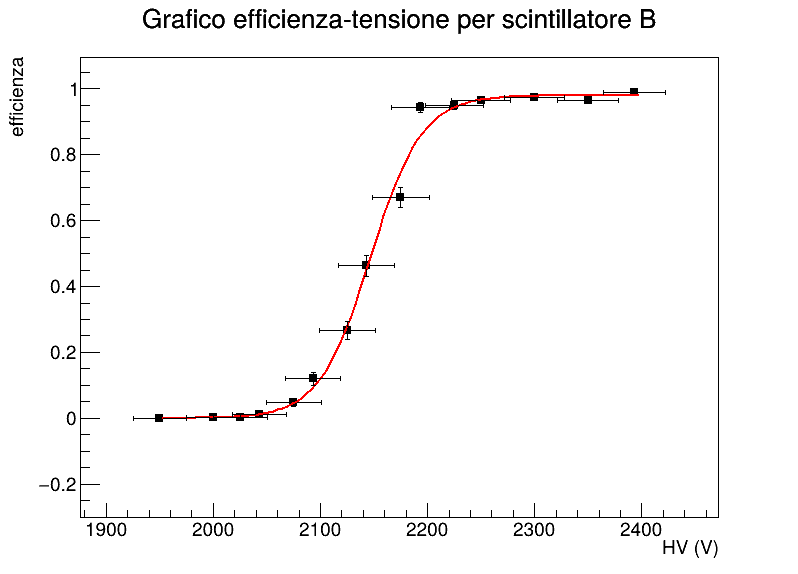
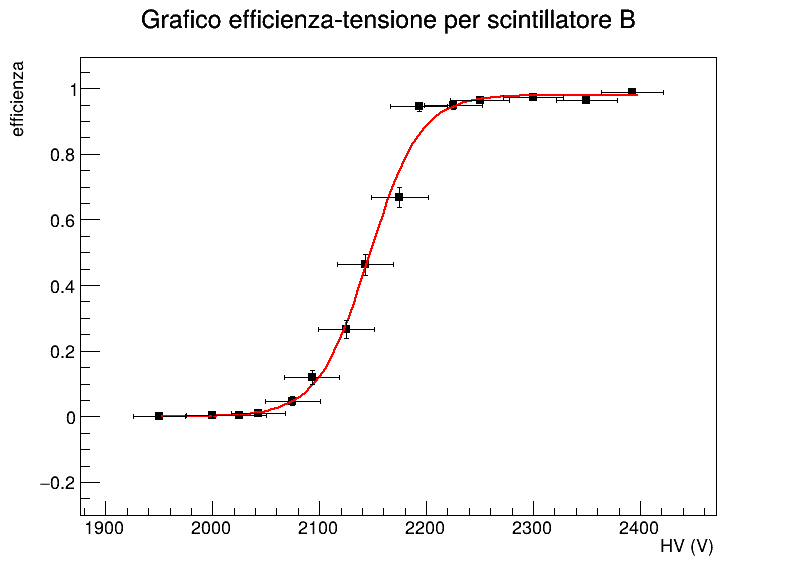
tabella latex

diff --git a/LAB_nucleare/LAB_nucl_efficienza_3.C b/LAB_nucleare/LAB_nucl_efficienza_3.C
@@ -1,0 +1,221 @@
+#include<iostream>
+#include "TGraphErrors.h"
+#include "TH1D.h"
+#include "TF1.h"
+#include<vector>
+#include<cmath>
+#include "TCanvas.h"
+using namespace std;
+
+
+//Obiettivo è il calcolo dell'efficienza dei nostri rivelatori; è la prima parte che richiede una serie analisi dati
+
+
+double EfficiencyFalling(double *x, double *par) {
+  return par[0]/(1+exp((x[0] - par[1])/par[2]));
+}
+
+double EfficiencyRising(double *x, double *par) {
+  return par[0]/(1+exp((par[1] - x[0])/par[2]));
+}
+
+
+void LAB_nucl_efficienza_3(){
+    //
+    //SCRIVERE QUA**********************************************************************************************************************
+    //creo gli array con i dati (copia-incollali tra le parentesi graffe)
+    vector<double> HV={2193, 2143, 2093, 2043, 2000, 1950, 2025, 2075, 2125, 2175, 2225, 2250, 2300, 2350, 2393}; //alta tensione
+    //
+    vector<double> coin_doppie={252, 244, 250, 276, 256, 260, 275, 271, 271, 245, 261, 252, 266, 258, 248};
+    //
+    vector<double> coin_triple= {238, 113, 30, 3, 1, 0.0000000000001, 1, 13, 72, 164, 248, 243, 259, 249, 245};
+    //
+    vector<double> coin_singole= {2933, 938, 236, 15, 6, 0.0000000000000001, 11, 110, 472, 1509, 3461, 4951, 8427, 12954, 17980};
+    //
+    double tempo_daq=100; //intervallo di tempo dell'acquisizione dati
+    //
+    double err_tempo=0.001; //errore sul tempo di data acquisition
+    //
+    double err_rel_tempo= err_tempo/tempo_daq; //errore relativo sul tempo di data acquisition
+    //
+    //STOP SCRITTURA (NON SCRIVERE IN QUESTI ARRAY QUA SOTTO!!!!)**************************************************************************
+    //qui scriviamo gli array con i rate
+    //
+    vector<double> R_doppie;
+    //
+    vector<double> R_triple;
+    //
+    vector<double> R_singole;
+    //
+    //RIEMPIMENTO ARRAY RATE
+    //R_doppie
+    for(vector<double>::const_iterator it= coin_doppie.begin(); it!= coin_doppie.end(); it++){
+        double misura= *it/tempo_daq;
+        R_doppie.push_back(misura);
+    }
+    //R_triple
+    for(vector<double>::const_iterator it= coin_triple.begin(); it!= coin_triple.end(); it++){
+        double misura= *it/tempo_daq;
+        R_triple.push_back(misura);
+    }
+    //R_singole
+    for(vector<double>::const_iterator it= coin_singole.begin(); it!= coin_singole.end(); it++){
+        double misura= *it/tempo_daq;
+        R_singole.push_back(misura);
+    }
+    //
+    //Ora ARRAY CON GLI ERRORI
+    vector<double> err_HV;  //cfr manuale
+    //
+    vector<double> err_coin_doppie={};
+    //
+    vector<double> err_coin_triple= {};
+    //
+    vector<double> err_coin_singole= {};
+    //
+    vector<double> err_R_doppie={};
+    //
+    vector<double> err_R_triple;
+    //
+    vector<double> err_R_singole;
+    //
+    //
+    //RIEMPIMENTO ERRORI
+    //
+    //Riempimento errori su HV
+    for(vector<double>::const_iterator it= HV.begin(); it!= HV.end(); it++){
+        double x= *it;
+        double err= x/100+5; //(errore dell'1% + 5 V da manuale)
+        err_HV.push_back(err);
+       
+    }
+    //
+    //riempimento errori su coin_doppie
+    for(vector<double>::const_iterator it= coin_doppie.begin(); it!= coin_doppie.end(); it++){
+        double x= *it;
+        double err= pow(x, 0.5); 
+        err_coin_doppie.push_back(err);
+    }
+    //
+    //riempimento errori su coin_triple
+    for(vector<double>::const_iterator it= coin_triple.begin(); it!= coin_triple.end(); it++){
+        double x= *it;
+        double err= pow(x, 0.5); 
+        err_coin_triple.push_back(err);
+    }
+    //
+    //riempimento errori su coin_singole
+    for(vector<double>::const_iterator it= coin_singole.begin(); it!= coin_singole.end(); it++){
+        double x= *it;
+        double err= pow(x, 0.5);
+        err_coin_singole.push_back(err);
+    }
+    //
+    //non usiamo più i const iterator, perchè tanto il numero di elementi è determinato dalla lunghezza di HV
+    int numero_elementi= HV.size();
+    //
+    //riempimento errori su R_doppie
+    for(int i=0; i<numero_elementi; i++){
+        double err_rel_coin= err_coin_doppie[i]/coin_doppie[i]; //errore relativo coincidenze doppie
+        double err_rel_rate_quad= pow(err_rel_coin,2)+ pow(err_rel_tempo, 2); //errore relativo sul rate
+        double err_rel_rate= pow(err_rel_rate_quad, 0.5);
+        double err_ass_rate= err_rel_rate* R_doppie[i];
+        err_R_doppie.push_back(err_ass_rate);
+    }
+    //
+    //riempimento errori su R_triple
+    for(int i=0; i<numero_elementi; i++){
+        double  err_rel_coin= err_coin_triple[i]/coin_triple[i]; //errore relativo coincidenze triple
+        double err_rel_rate_quad= pow(err_rel_coin,2)+ pow(err_rel_tempo, 2); //errore relativo sul rate
+        double err_rel_rate= pow(err_rel_rate_quad, 0.5);
+        double err_ass_rate= err_rel_rate* R_triple[i];
+        err_R_triple.push_back(err_ass_rate);
+    }
+    //
+    //riempimento errori su R_singole
+    for(int i=0; i<numero_elementi; i++){
+        double err_rel_coin= err_coin_singole[i]/coin_singole[i]; //errore relativo coincidenze singole
+        double err_rel_rate_quad= pow(err_rel_coin,2)+ pow(err_rel_tempo, 2); //errore relativo sul rate
+        double err_rel_rate= pow(err_rel_rate_quad, 0.5);
+        double err_ass_rate= err_rel_rate* R_singole[i];
+        err_R_singole.push_back(err_ass_rate);
+        
+    }
+    //
+    //++++++++++++++++++++++++++++++++++++++
+    //CALCOLO DELL'EFFICIENZA
+    //
+    vector<double> eff={};
+    vector<double> err_eff={};
+
+    //
+    //calcolo efficienza (valore)
+    for(int i=0; i<numero_elementi; i++){
+        double my_doppia_coin= R_doppie[i];
+        double my_tripla_coin= R_triple[i];
+        double my_eff= my_tripla_coin/my_doppia_coin;
+        eff.push_back(my_eff);
+    }
+    //
+    //calcolo errore sull'efficienza
+    for(int i=0; i<numero_elementi; i++){
+        double varianza= (eff[i]*(1-eff[i]))/coin_doppie[i];
+        double err_ass= pow(varianza, 0.5);
+        err_eff.push_back(err_ass);
+    }
+    //
[1 lines of base64/hex data omitted]
+    //
+    //EFFICIENZA-TENSIONE
+    TCanvas* c1= new TCanvas("c1", "\epsilon - tensione", 800, 600);
+    //
+    TGraphErrors* gr1= new TGraphErrors(numero_elementi,HV.data(), eff.data(), err_HV.data(), err_eff.data());
+    //
+    gr1->GetXaxis()->SetTitle("HV (V)");
+    gr1->GetYaxis()->SetTitle("efficienza");
+    gr1->SetTitle("Grafico efficienza-tensione per scintillatore B");
+     gr1->SetMinimum(-0.3);
+     gr1->SetMarkerStyle(21);
+     TF1* fit_eff= new TF1("fit_eff", EfficiencyRising, 1950, 2400, 3);
+      fit_eff->SetParameters(1, 2100, 11);
+      gr1->Fit("fit_eff", "R");
+    gr1->Draw("AP");
+   
+    c1->Print("Grafico_eff_HV.png", "png");
+    cout<<"il p value di Hv-efficienza è"<<endl;
+    double p= fit_eff->GetProb();
+    cout<<p<<endl;
+
+
+
+
+
+    //
+    //GRAFICO   Rsingola-HV
+    TCanvas* c2= new TCanvas("c2", "R_singola-tensione", 800, 600);
+    //
+    TGraphErrors* gr2= new TGraphErrors(numero_elementi, HV.data(), R_singole.data(), err_HV.data(), err_R_singole.data());
+    gr2->GetXaxis()->SetTitle("HV (V)");
+    gr2->GetYaxis()->SetTitle("R_{singola}");
+    gr2->SetMinimum(-10);
+    gr2->SetMarkerStyle(21);
+    gr2->SetTitle("Grafico conteggi-tensione per scintillatore B");
+    c2->cd();
+    gr2->Draw("AP.");
+    c2->Print("Grafico_R_singola_HV.png", "png");
+
+    for(int i=0; i<numero_elementi; i++){
+        double HV_1= HV[i];
+        double err_HV_1= err_HV[i];
+        double eff_1= eff[i];
+        double err_eff_1= err_eff[i];
+        double coin_singole_1= coin_singole[i];
+        double coin_doppie_1= coin_doppie[i];
+        double coin_triple_1= coin_triple[i];
+         double err_coin_singole_1= err_coin_singole[i];
+        double err_coin_doppie_1= err_coin_doppie[i];
+        double err_coin_triple_1= err_coin_triple[i];
+        cout<< "$ ( "<< HV_1<< " \\pm  "<< err_HV_1<< "  )$  & $ (  " << eff_1<< " \\pm "<< err_eff_1<< "  )$ & $ (" << coin_singole_1<< " \\pm " <<  err_coin_singole_1 <<   "  )$ & $ (" << coin_doppie_1<< " \\pm " << err_coin_doppie[i] << "  )$ & $ (" << coin_triple[i] << " \\pm " << err_coin_triple_1 <<"  )$ \\\\ \\hline "<<endl;
+    }
+
+}
